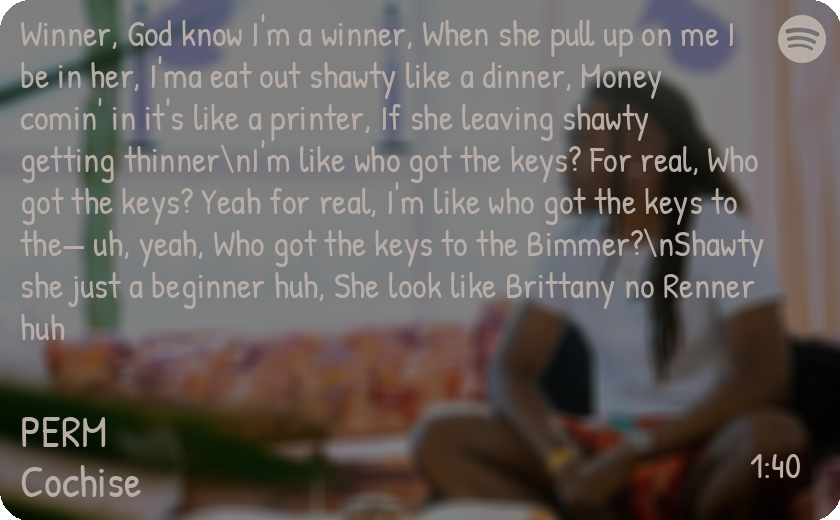
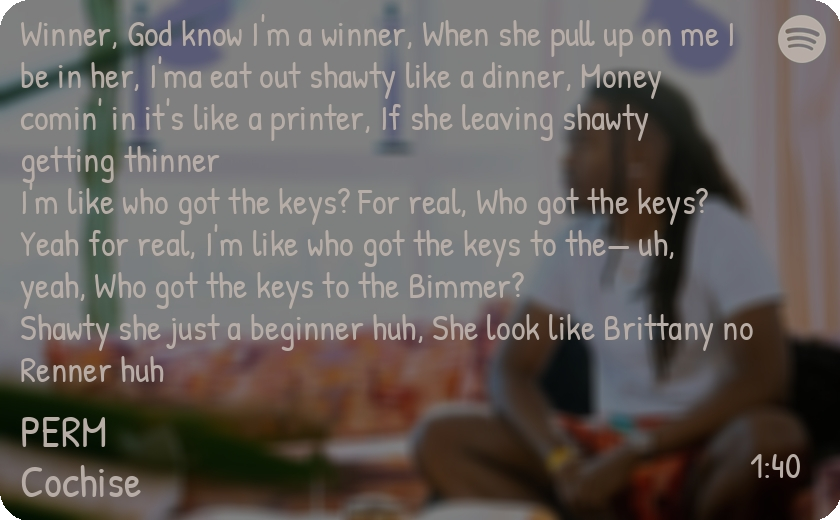
fixed an issue with newlines

Changed region(s): [[0.0, 0.2769, 0.9286, 0.7385]]

diff --git a/README.md b/README.md
@@ -9,14 +9,13 @@ spotify lyrics card creator
 ```
    Usage:
  ./spoticard TRACK_ID "LYRICS" TIMESTAMP ... ...
- Example: ./spoticard 61dXty0FR61qyVczdM49F4 "Winner, God know I'm a winner, When she pull up on me I be in her, I'ma eat out shawty like a dinner, Money comin' in it's like a printer, If she leaving shawty getting thinner
-I'm like who got the keys? For real, Who got the keys? Yeah for real, I'm like who got the keys to the— uh, yeah, Who got the keys to the Bimmer?
-Shawty she just a beginner huh, She look like Brittany no Renner huh" 1:40
+ Example: ./spoticard 61dXty0FR61qyVczdM49F4 "Winner, God know I'm a winner, When she pull up on me I be in her, I'ma eat out shawty like a dinner, Money comin' in it's like a printer, If she leaving shawty getting thinner#nlI'm like who got the keys? For real, Who got the keys? Yeah for real, I'm like who got the keys to the— uh, yeah, Who got the keys to the Bimmer?#nlShawty she just a beginner huh, She look like Brittany no Renner huh" 1:40
 
 Arguments and how to use them: (* = required)
  *  track_id: the id of the song
  *    lyrics: lyrics of the song. i suggest to format it to look good, for example
               breaking lines or adding newlines when there is supposed to be a newline
+              USE "#NL" FOR A NEWLINE!!
  * timestamp: the timestamp of the lyrics
 
    lyrics_brightness: how bright the lyrics text should be, 4th argument. default:    1
